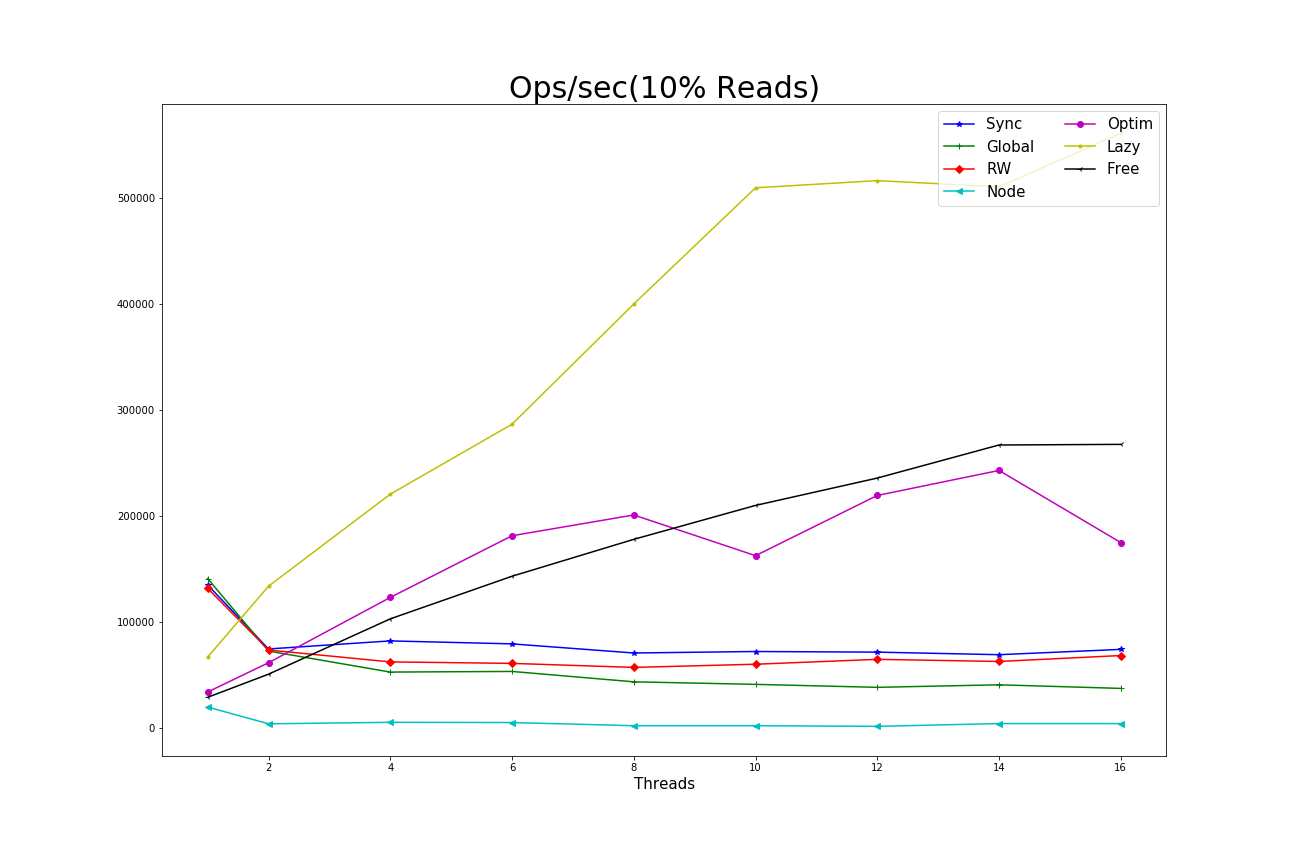
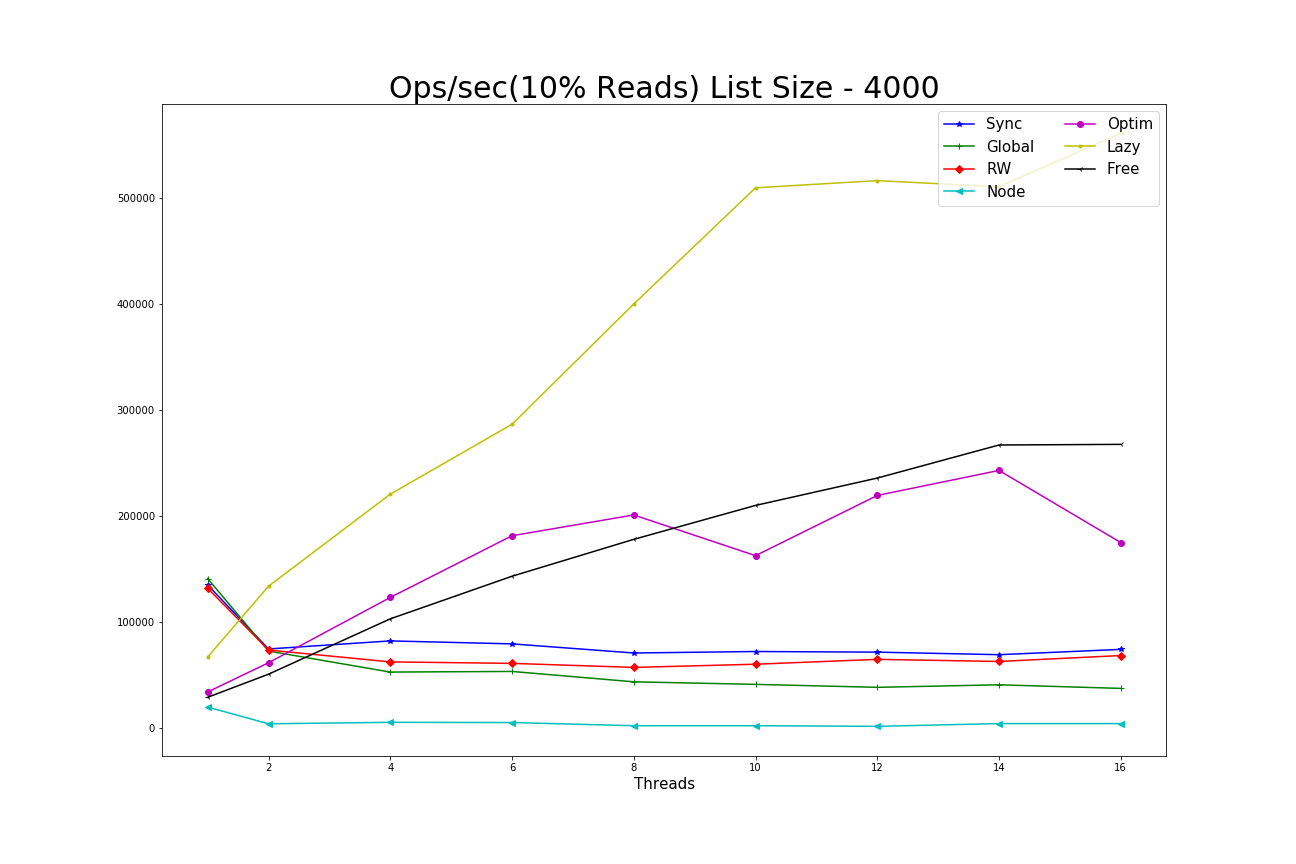
Final test results

Changed region(s): [[0.3086, 0.0938, 0.7407, 0.125]]

diff --git a/Concurrent_IntSet/scripts/graph.py b/Concurrent_IntSet/scripts/graph.py
@@ -47,61 +47,89 @@ matLazy_smaller = np.loadtxt('../results/results_LazyPerNodeLock.txt') * 1000
 matFree_smaller = np.loadtxt('../results/results_LockFree.txt') * 1000
 
 #Parametres
-n_reads = [10, 90, 50];
+n_reads = [10, 90, 50, 99];
 threads = [1,2,4,6,8,10,12,14,16]
 
 #MAKE AVERAGES AND SPLITS RESULTS
 
 #Larger List
-contains_Sync_bigger = split_contains_ratio(matSync_bigger,len(n_reads))
-contains_GL_bigger   = split_contains_ratio(matGL_bigger,len(n_reads))
-contains_RWL_bigger  = split_contains_ratio(matRWL_bigger,len(n_reads))
-contains_PNL_bigger  = split_contains_ratio(matPNL_bigger,len(n_reads))
-contains_OL_bigger   = split_contains_ratio(matOL_bigger,len(n_reads))
-contains_Lazy_bigger = split_contains_ratio(matLazy_bigger,len(n_reads))
-contains_Free_bigger = split_contains_ratio(matFree_bigger,len(n_reads))
+contains_Sync_bigger = split_contains_ratio(matSync_bigger,len(n_reads)-1)
+contains_GL_bigger   = split_contains_ratio(matGL_bigger,len(n_reads)-1)
+contains_RWL_bigger  = split_contains_ratio(matRWL_bigger,len(n_reads)-1)
+contains_PNL_bigger  = split_contains_ratio(matPNL_bigger,len(n_reads)-1)
+contains_OL_bigger   = split_contains_ratio(matOL_bigger,len(n_reads)-1)
+contains_Lazy_bigger = split_contains_ratio(matLazy_bigger,len(n_reads)-1)
+contains_Free_bigger = split_contains_ratio(matFree_bigger,len(n_reads)-1)
 #Smaller List
-contains_Sync_smaller = split_contains_ratio(matSync_smaller,len(n_reads)+1)
-contains_GL_smaller   = split_contains_ratio(matGL_smaller,len(n_reads)+1)
-contains_RWL_smaller  = split_contains_ratio(matRWL_smaller,len(n_reads)+1)
-contains_PNL_smaller  = split_contains_ratio(matPNL_smaller,len(n_reads)+1)
-contains_OL_smaller   = split_contains_ratio(matOL_smaller,len(n_reads)+1)
-contains_Lazy_smaller = split_contains_ratio(matLazy_smaller,len(n_reads)+1)
-contains_Free_smaller = split_contains_ratio(matFree_smaller,len(n_reads)+1)
+contains_Sync_smaller = split_contains_ratio(matSync_smaller,len(n_reads))
+contains_GL_smaller   = split_contains_ratio(matGL_smaller,len(n_reads))
+contains_RWL_smaller  = split_contains_ratio(matRWL_smaller,len(n_reads))
+contains_PNL_smaller  = split_contains_ratio(matPNL_smaller,len(n_reads))
+contains_OL_smaller   = split_contains_ratio(matOL_smaller,len(n_reads))
+contains_Lazy_smaller = split_contains_ratio(matLazy_smaller,len(n_reads))
+contains_Free_smaller = split_contains_ratio(matFree_smaller,len(n_reads))
 
 
 #PLOT RESULTS
 #Larger List
-for i in range(0,len(n_reads)):
+for i in range(0,len(n_reads)-1):
     plot_contains_ratio( contains_Sync_bigger[i], contains_GL_bigger[i], contains_RWL_bigger[i], contains_PNL_bigger[i], contains_OL_bigger[i], 
-     contains_Lazy_bigger[i], contains_Free_bigger[i],threads, "Ops/sec(" + str(n_reads[i]) + "% Reads)", "Threads", "../results/4000_" + str(n_reads[i]) +"_reads")
+     contains_Lazy_bigger[i], contains_Free_bigger[i],threads, "Ops/sec(" + str(n_reads[i]) + "% Reads) List Size - 4000" , "Threads", "../results/4000_" + str(n_reads[i]) +"_reads")
 #Smaller list
-for i in range(0,len(n_reads)+1):
+for i in range(0,len(n_reads)):
     plot_contains_ratio( contains_Sync_smaller[i], contains_GL_smaller[i], contains_RWL_smaller[i], contains_PNL_smaller[i], contains_OL_smaller[i], 
-     contains_Lazy_smaller[i], contains_Free_smaller[i],threads, "Ops/sec(" + str(n_reads[i]) + "% Reads)", "Threads", "../results/4000_" + str(n_reads[i]) +"_reads")
+     contains_Lazy_smaller[i], contains_Free_smaller[i],threads, "Ops/sec(" + str(n_reads[i]) + "% Reads) List Size - 256" , "Threads", "../results/256_" + str(n_reads[i]) +"_reads")
     
 #PLOT AS CONTAINS INCREASES
 
-matSync = np.loadtxt('../results/results_reads_Synchronized.txt')
-matGL = np.loadtxt('../results/results_reads_GlobalLock.txt')
-matRWL = np.loadtxt('../results/results_reads_GlobalRWLock.txt')
-matPNL = np.loadtxt('../results/results_reads_PerNodeLock.txt')
-matOL = np.loadtxt('../results/results_reads_OptimisticPerNodeLock.txt')
-matLazy = np.loadtxt('../results/results_reads_LazyPerNodeLock.txt')
-matFree = np.loadtxt('../results/results_reads_LockFree.txt')
+#Larger List
+matSync_bigger = np.loadtxt('../results/bigger_reads_Synchronized.txt') * 1000
+matGL_bigger = np.loadtxt('../results/bigger_reads_GlobalLock.txt') * 1000
+matRWL_bigger = np.loadtxt('../results/bigger_reads_GlobalRWLock.txt') * 1000
+matPNL_bigger = np.loadtxt('../results/bigger_reads_PerNodeLock.txt') * 1000
+matOL_bigger = np.loadtxt('../results/bigger_reads_OptimisticPerNodeLock.txt') * 1000
+matLazy_bigger = np.loadtxt('../results/bigger_reads_LazyPerNodeLock.txt') * 1000
+matFree_bigger = np.loadtxt('../results/bigger_reads_LockFree.txt') * 1000
+#Smaller List
+matSync_smaller = np.loadtxt('../results/results_reads_Synchronized.txt') * 1000
+matGL_smaller = np.loadtxt('../results/results_reads_GlobalLock.txt') * 1000
+matRWL_smaller = np.loadtxt('../results/results_reads_GlobalRWLock.txt') * 1000
+matPNL_smaller = np.loadtxt('../results/results_reads_PerNodeLock.txt') * 1000
+matOL_smaller = np.loadtxt('../results/results_reads_OptimisticPerNodeLock.txt') * 1000
+matLazy_smaller = np.loadtxt('../results/results_reads_LazyPerNodeLock.txt') * 1000
+matFree_smaller = np.loadtxt('../results/results_reads_LockFree.txt') * 1000
+
+#Parametres
+n_reads = [10, 90, 50, 99];
+threads = [1,2,4,6,8,10,12,14,16]
+writes_perc = [5,10,20,30,40,50,60,70,80,90]
+
+#MAKE AVERAGES AND SPLITS RESULTS
+
+#Larger List
+contains_Sync_bigger = split_contains_ratio(matSync_bigger,len(writes_perc)+1)
+contains_GL_bigger   = split_contains_ratio(matGL_bigger,len(writes_perc)+1)
+contains_RWL_bigger  = split_contains_ratio(matRWL_bigger,len(writes_perc)+1)
+contains_PNL_bigger  = split_contains_ratio(matPNL_bigger,len(writes_perc)+1)
+contains_OL_bigger   = split_contains_ratio(matOL_bigger,len(writes_perc)+1)
+contains_Lazy_bigger = split_contains_ratio(matLazy_bigger,len(writes_perc)+1)
+contains_Free_bigger = split_contains_ratio(matFree_bigger,len(writes_perc)+1)
+#Smaller List
+contains_Sync_smaller = split_contains_ratio(matSync_smaller,len(writes_perc)+1)
+contains_GL_smaller   = split_contains_ratio(matGL_smaller,len(writes_perc)+1)
+contains_RWL_smaller  = split_contains_ratio(matRWL_smaller,len(writes_perc)+1)
+contains_PNL_smaller  = split_contains_ratio(matPNL_smaller,len(writes_perc)+1)
+contains_OL_smaller   = split_contains_ratio(matOL_smaller,len(writes_perc)+1)
+contains_Lazy_smaller = split_contains_ratio(matLazy_smaller,len(writes_perc)+1)
+contains_Free_smaller = split_contains_ratio(matFree_smaller,len(writes_perc)+1)
 
 
-contains_Sync = split_contains_ratio(matSync,11)
-contains_GL = split_contains_ratio(matGL,11)
-contains_RWL = split_contains_ratio(matRWL,11)
-contains_PNL = split_contains_ratio(matPNL,11)
-contains_OL = split_contains_ratio(matOL,11)
-contains_Lazy = split_contains_ratio(matLazy,11)
-contains_Free = split_contains_ratio(matFree,11)
 
-writes_perc = [0,5,10,20,30,40,50,60,70,80,90]
-plot_contains_ratio(contains_Sync, contains_GL, contains_RWL, contains_PNL, contains_OL, 
-     contains_Lazy, contains_Free, writes_perc, "Ops/sec(16 Threads)", "% writes", "../results/Ops_sec_16_threads")
+plot_contains_ratio(contains_Sync_smaller[1:], contains_GL_smaller[1:], contains_RWL_smaller[1:], contains_PNL_smaller[1:], contains_OL_smaller[1:], 
+     contains_Lazy_smaller[1:], contains_Free_smaller[1:], writes_perc, "Ops/sec(16 Threads) List Size - 256", "% writes", "../results/256_16_threads")
+
+plot_contains_ratio(contains_Sync_bigger[1:], contains_GL_bigger[1:], contains_RWL_bigger[1:], contains_PNL_bigger[1:], contains_OL_bigger[1:], 
+     contains_Lazy_bigger[1:], contains_Free_bigger[1:], writes_perc, "Ops/sec(16 Threads) List Size - 4000", "% writes", "../results/4000_16_threads")
 
 
 
